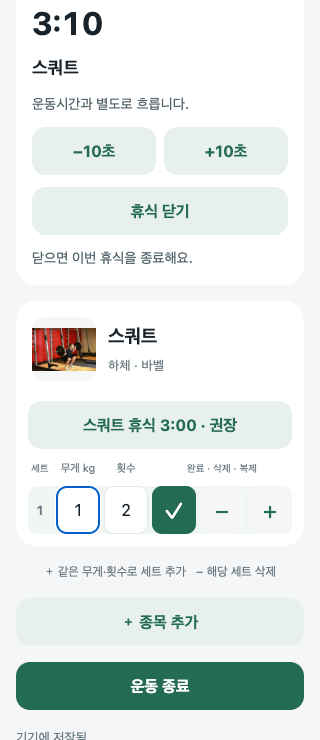
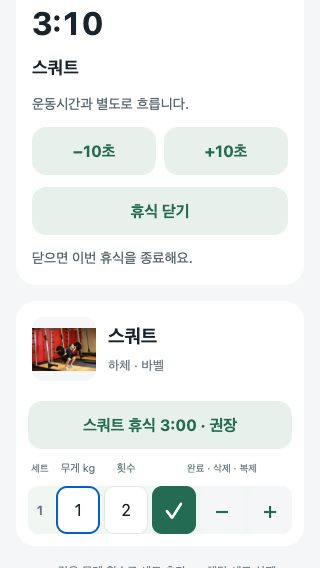
docs: align timer evidence with DS-01 viewport checklist

diff --git a/docs/ds01-timers.md b/docs/ds01-timers.md
@@ -20,7 +20,7 @@
 ## 검증
 - `npm run check`: 스타일 생성물 일치, 타입, 린트, 122개 테스트 통과.
 - `npm run export`: iOS/Android/Web 번들 생성 통과.
-- 실제 Chrome: 320×740, 375×812, 390×844, 430×932, 768×1024, 1024×768, 844×390에서 가로 넘침 없음. 크기 변경 중 입력값·입력 DOM 포커스·저장 원문 유지, 새로고침 후 복구.
+- 실제 Chrome: 320×568, 375×667, 390×844, 430×932, 768×1024, 1024×768, 844×390에서 가로 넘침 없음. 크기 변경 중 입력값·입력 DOM 포커스·저장 원문 유지, 새로고침 후 복구.
 - 실제 Chrome: 버튼 기본/보조/눌림 색상, 48px 최소 높이, 긴 문구 줄바꿈, disabled/loading 클릭 차단, 로딩 전후 폭 유지, aria-busy, 2px 포커스 외곽선.
 - 실제 Chrome: 휴식 종료·최대 경계, 종료 후 +10초 재개, 일시정지한 운동 및 개인 휴식 설정 불변, 긴 운동명/123시간 표시.
 - 회귀 테스트는 실제 Button과 RNW 렌더러로 busy 전달을 검사한다. aria-busy를 제거하면 실패하고 복구하면 통과함을 확인했다.
